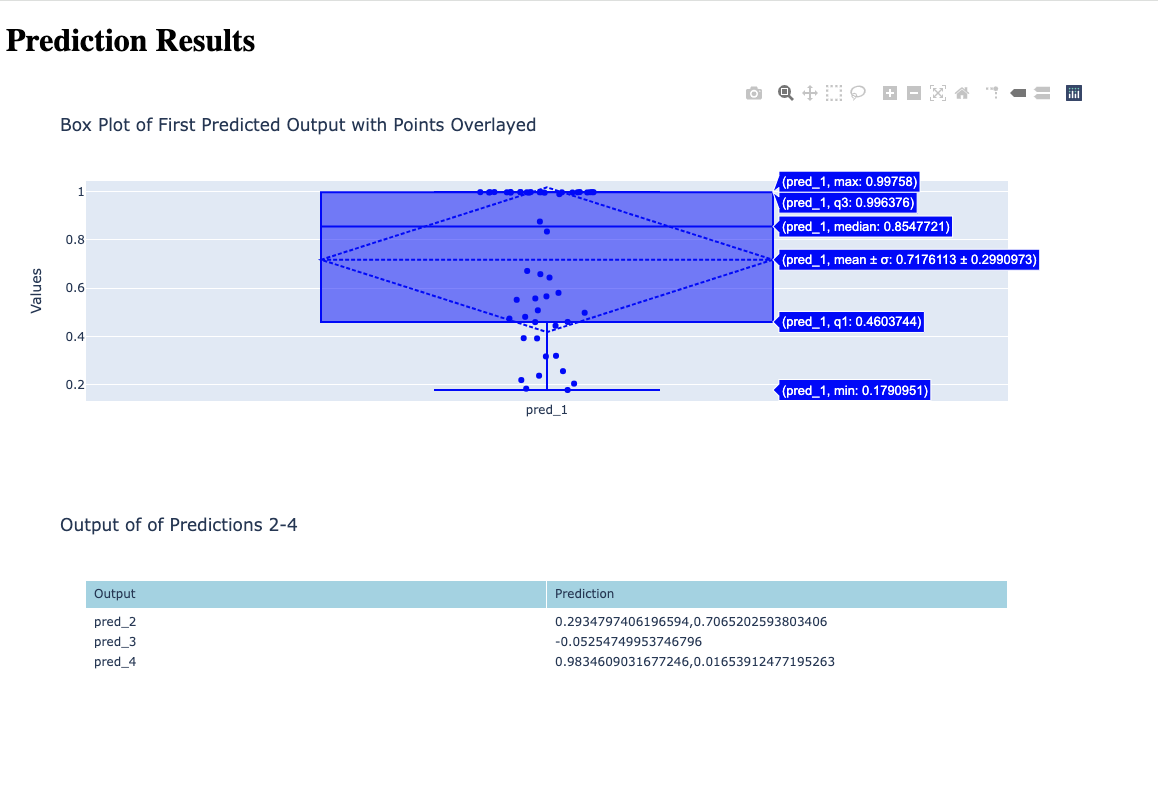
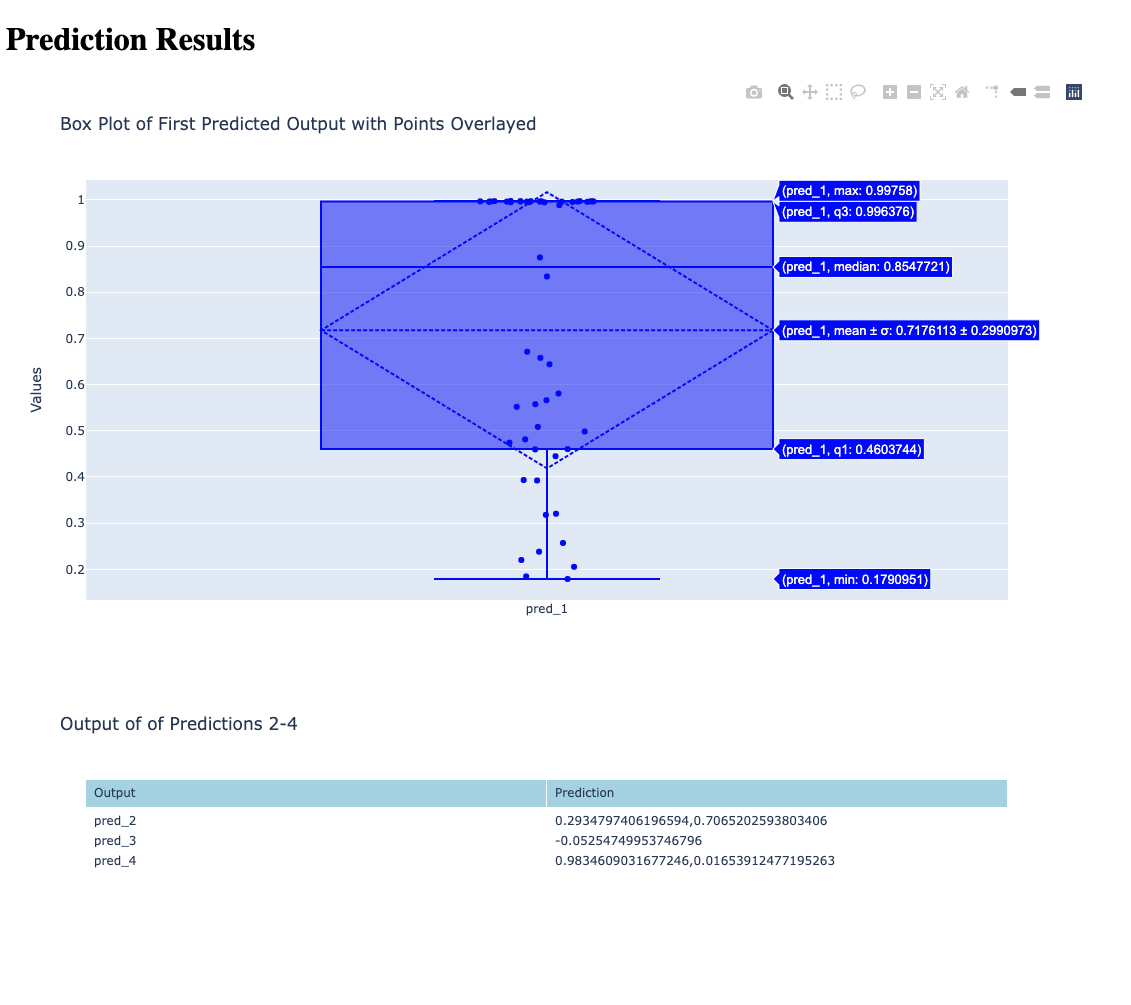
feat: Including error handling and comments

diff --git a/src/ecg2af_web_app/html_template/results.html b/src/ecg2af_web_app/html_template/results.html
@@ -9,8 +9,8 @@
 <body>
     <h1>Prediction Results</h1>
     
-    <div id="fig1" style="width:50%;height:400px;"></div>
-    <div id="fig2" style="width:50%;height:400px;"></div>
+    <div id="fig1" style="width:50%;height:600px;"></div>
+    <div id="fig2" style="width:50%;height:600px;"></div>
 
     <script>
         // Pass the Plotly figure data from Flask to JavaScript

diff --git a/src/ecg2af_web_app/app.py b/src/ecg2af_web_app/app.py
@@ -18,17 +18,29 @@ app = Flask(__name__, template_folder="html_template")
 
 
 def ecg_as_tensor(ecg_file: str) -> np.ndarray:
-    with h5py.File(ecg_file, 'r') as hd5:
-        tensor = np.zeros(ecg_settings.ECG_SHAPE, dtype=np.float32)
-        for lead in ecg_settings.ECG_REST_LEADS:
-            data = np.array(hd5[f'{ecg_settings.ECG_HD5_PATH}/{lead}/instance_0'])
-            tensor[:, ecg_settings.ECG_REST_LEADS[lead]] = data
-        tensor -= np.mean(tensor)
-        tensor /= np.std(tensor) + 1e-6
+    """
+    Convert an ECG data file in HD5 format to a np.ndarray for  ECG2AF model input.
+    """
+    try:
+        with h5py.File(ecg_file, 'r') as hd5:
+            tensor = np.zeros(ecg_settings.ECG_SHAPE, dtype=np.float32)
+            for lead in ecg_settings.ECG_REST_LEADS:
+                data = np.array(hd5[f'{ecg_settings.ECG_HD5_PATH}/{lead}/instance_0'])
+                tensor[:, ecg_settings.ECG_REST_LEADS[lead]] = data
+            tensor -= np.mean(tensor)
+            tensor /= np.std(tensor) + 1e-6
+    except Exception as e:
+        app.logger.error(f"Error processing ECG file: {e}")
+        raise ValueError("Invalid ECG file format or corrupted file.")
+    
     return tensor
 
 
 def make_results_figures(predictions: List, pred_df: pd.DataFrame) -> Tuple:
+    """
+    Generate Plotly figures of the model's predictions.
+    """
+    # First figure: box plot for the first prediction output
     box_data = go.Box(
         y=predictions[0].flatten(),
         name='pred_1',
@@ -46,6 +58,7 @@ def make_results_figures(predictions: List, pred_df: pd.DataFrame) -> Tuple:
         xaxis_title="",
     )
 
+    # Second figure: table of additional predictions
     fig2 = go.Figure(data=[go.Table(
                     header=dict(values=["Output", "Prediction"], 
                                 fill_color='lightblue', 
@@ -63,36 +76,56 @@ def make_results_figures(predictions: List, pred_df: pd.DataFrame) -> Tuple:
 
 @app.route('/')
 def index():
+    """
+    Render the welcome page for uploading the ECG data file.
+    """
     return render_template("index.html")
 
 
 @app.route('/predict', methods=['POST'])
 def predict():
-    if 'ecg_file' not in request.files:
+    """
+    Process uploaded ECG file and display prediction results.
+    """
+    if "ecg_file" not in request.files:
         return jsonify({"error": "No file uploaded"}), 400
 
-    ecg_file = request.files['ecg_file']
-    ecg_tensor = ecg_as_tensor(ecg_file)
-    
-    custom_dict = get_custom_objects([mgb_afib_wrt_instance2, age_2_wide, af_dummy, sex_dummy3])
-    model = tf.keras.models.load_model("models/ecg_5000_survival_curve_af_quadruple_task_mgh_v2021_05_21.h5", custom_objects=custom_dict)
-    predictions = model.predict(np.expand_dims(ecg_tensor, axis=0))
+    ecg_file = request.files["ecg_file"]
 
-    pred_df = pd.DataFrame({"prediction": [
-                            predictions[1].flatten().tolist(),
-                            predictions[2].flatten().tolist(),
-                            predictions[3].flatten().tolist()
-                            ]
-    }, index=["pred_2", "pred_3", "pred_4"])
-    
-    fig1, fig2 = make_results_figures(predictions, pred_df)
+    try:
+        # Convert uploaded ECG data file to tensor
+        ecg_tensor = ecg_as_tensor(ecg_file)
+        
+        # Load model and make predictions
+        custom_dict = get_custom_objects([mgb_afib_wrt_instance2, age_2_wide, af_dummy, sex_dummy3])
+        model = tf.keras.models.load_model("models/ecg_5000_survival_curve_af_quadruple_task_mgh_v2021_05_21.h5", custom_objects=custom_dict)
+        predictions = model.predict(np.expand_dims(ecg_tensor, axis=0))
 
-    fig1_json = json.dumps(fig1, cls=plotly.utils.PlotlyJSONEncoder)
-    fig2_json = json.dumps(fig2, cls=plotly.utils.PlotlyJSONEncoder)
+        # Prepare DataFrame for table display
+        pred_df = pd.DataFrame({"prediction": [
+                                predictions[1].flatten().tolist(),
+                                predictions[2].flatten().tolist(),
+                                predictions[3].flatten().tolist()
+                                ]
+        }, index=["pred_2", "pred_3", "pred_4"])
+        
+        # Generate results figures
+        fig1, fig2 = make_results_figures(predictions, pred_df)
 
-    #print(render_template("results.html", fig1_json=fig1_json, fig2_json=fig2_json))
+        # Convert figures to JSON for front-end display on predictions page
+        fig1_json = json.dumps(fig1, cls=plotly.utils.PlotlyJSONEncoder)
+        fig2_json = json.dumps(fig2, cls=plotly.utils.PlotlyJSONEncoder)
 
-    return render_template("results.html", fig1_json=fig1_json, fig2_json=fig2_json)
+        return render_template("results.html", fig1_json=fig1_json, fig2_json=fig2_json)
+
+    except ValueError as e:
+        return jsonify({"ERROR": str(e)}), 400
+    except tf.errors.OpError as e:
+        app.logger.error(f"TensorFlow error: {e}")
+        return jsonify({"ERROR": "An error occurred during model inference."}), 500
+    except Exception as e:
+        app.logger.error(f"Unexpected error: {e}")
+        return jsonify({"Error": "An unexpected error occurred. Please try again."}), 500
 
 
 if __name__ == '__main__':

diff --git a/README.md b/README.md
@@ -16,7 +16,7 @@ Initial setup steps:
 If using existing Docker image (I used for application):
 - `cd ecg2af-web-app`
 - `docker pull ghcr.io/broadinstitute/ml4h:tf2.9-latest-cpu`
-- (change the model path to wherever you have it stored locally which is likely: ml4h/model_zoo/ECG2AF/ecg_5000_survival_curve_af_quadruple_task_mgh_v2021_05_21.h5) `docker run -it --rm -p 5001:5001 -v $(pwd):/app -v /Users/bellaluciani/Downloads/ecg_5000_survival_curve_af_quadruple_task_mgh_v2021_05_21.h5:/app/src/ecg2af_web_app/models/ecg_5000_survival_curve_af_quadruple_task_mgh_v2021_05_21.h5 ghcr.io/broadinstitute/ml4h:tf2.9-latest-cpu /bin/bash`
+- (change the model path to wherever you have it stored locally which is likely: ml4h/model_zoo/ECG2AF/ecg_5000_survival_curve_af_quadruple_task_mgh_v2021_05_21.h5) `docker run -it --rm -p 5001:5001 -v $(pwd):/app -v /Users/nickdinapoli/Downloads/ecg_5000_survival_curve_af_quadruple_task_mgh_v2021_05_21.h5:/app/src/ecg2af_web_app/models/ecg_5000_survival_curve_af_quadruple_task_mgh_v2021_05_21.h5 ghcr.io/broadinstitute/ml4h:tf2.9-latest-cpu /bin/bash`
 - `pip install .`
 - `pip install -r requirements.txt`
 - `cd src/ecg2af_web_app/`
@@ -56,6 +56,8 @@ If using pip + virtual env
 
 ## Application Usage
 
+For this project I chose to use to use Flask as the web framework for a few reasons. I do not have a ton of prior experience with web applications so I went with Flask because of its simplicity and because I had used it once or twice in my Master's coursework. 
+
 Once you have ran `python app.py`, the first HTTP address will navigate you to a simple welcome page seen below:
 
 ![welcome_page](images/welcome_page.png)
@@ -64,8 +66,19 @@ Click the "Choose File" button and upload the sample ECG data (`fake_0.hd5`) fro
 
 ![results_page](images/results_page.png)
 
-The figures are both interactive for an enhanced user experience. The user can click the boxplot and immediate receive some key statistics about the results as seen here:
+The figures are both interactive for an enhanced user experience. The user can hover over the boxplot and immediate receive some key statistics about the results as seen here:
 
 ![interactive_results](images/interactive_results.png)
 
 Using the back button in your browser will allow the welcome page to reload if you wish to run inference using another ECG file. 
+
+
+## Scalability Question
+
+*Explain how you would scale the solution to allow analysis of a larger volume of data (e.g., 10,000 ECGs) and accommodate more users.*
+
+My first impression is to use cloud resources/tools. If the application is deployed on a cloud platform, the scaling of microservices and batch processing might be greatly simplified. For me in my experience with AWS ECR + Batch, I would re-write the application to accept many datasets and distrubute jobs amongst all available proceeses. I would also decouple the data pre processing and model inference steps into different modules/services which could provide additional speed up. Additional ideas that I have implemented in the past is model caching which allows for lower latency and efficient handling of jobs/requests. Lastly, I could also re-write the model inference to take further advantage of GPUs and batch processing. After my first impression comes a bit of research, and based on this research, I see that two more ideas for handling larger volumes of data are async processing as well as database optimization. If a proper database is set up to store datsets, predictions, and metadata, a more sound database might allow for quicker read/write of this data. 
+
+## Use of external resources
+
+I used ChatGPT to help build the HTML files as well as route the interactive plots through these pages as I have a little less experience with front-end. I also leveraged it to assist with setting up the proper Flask decorators. 
